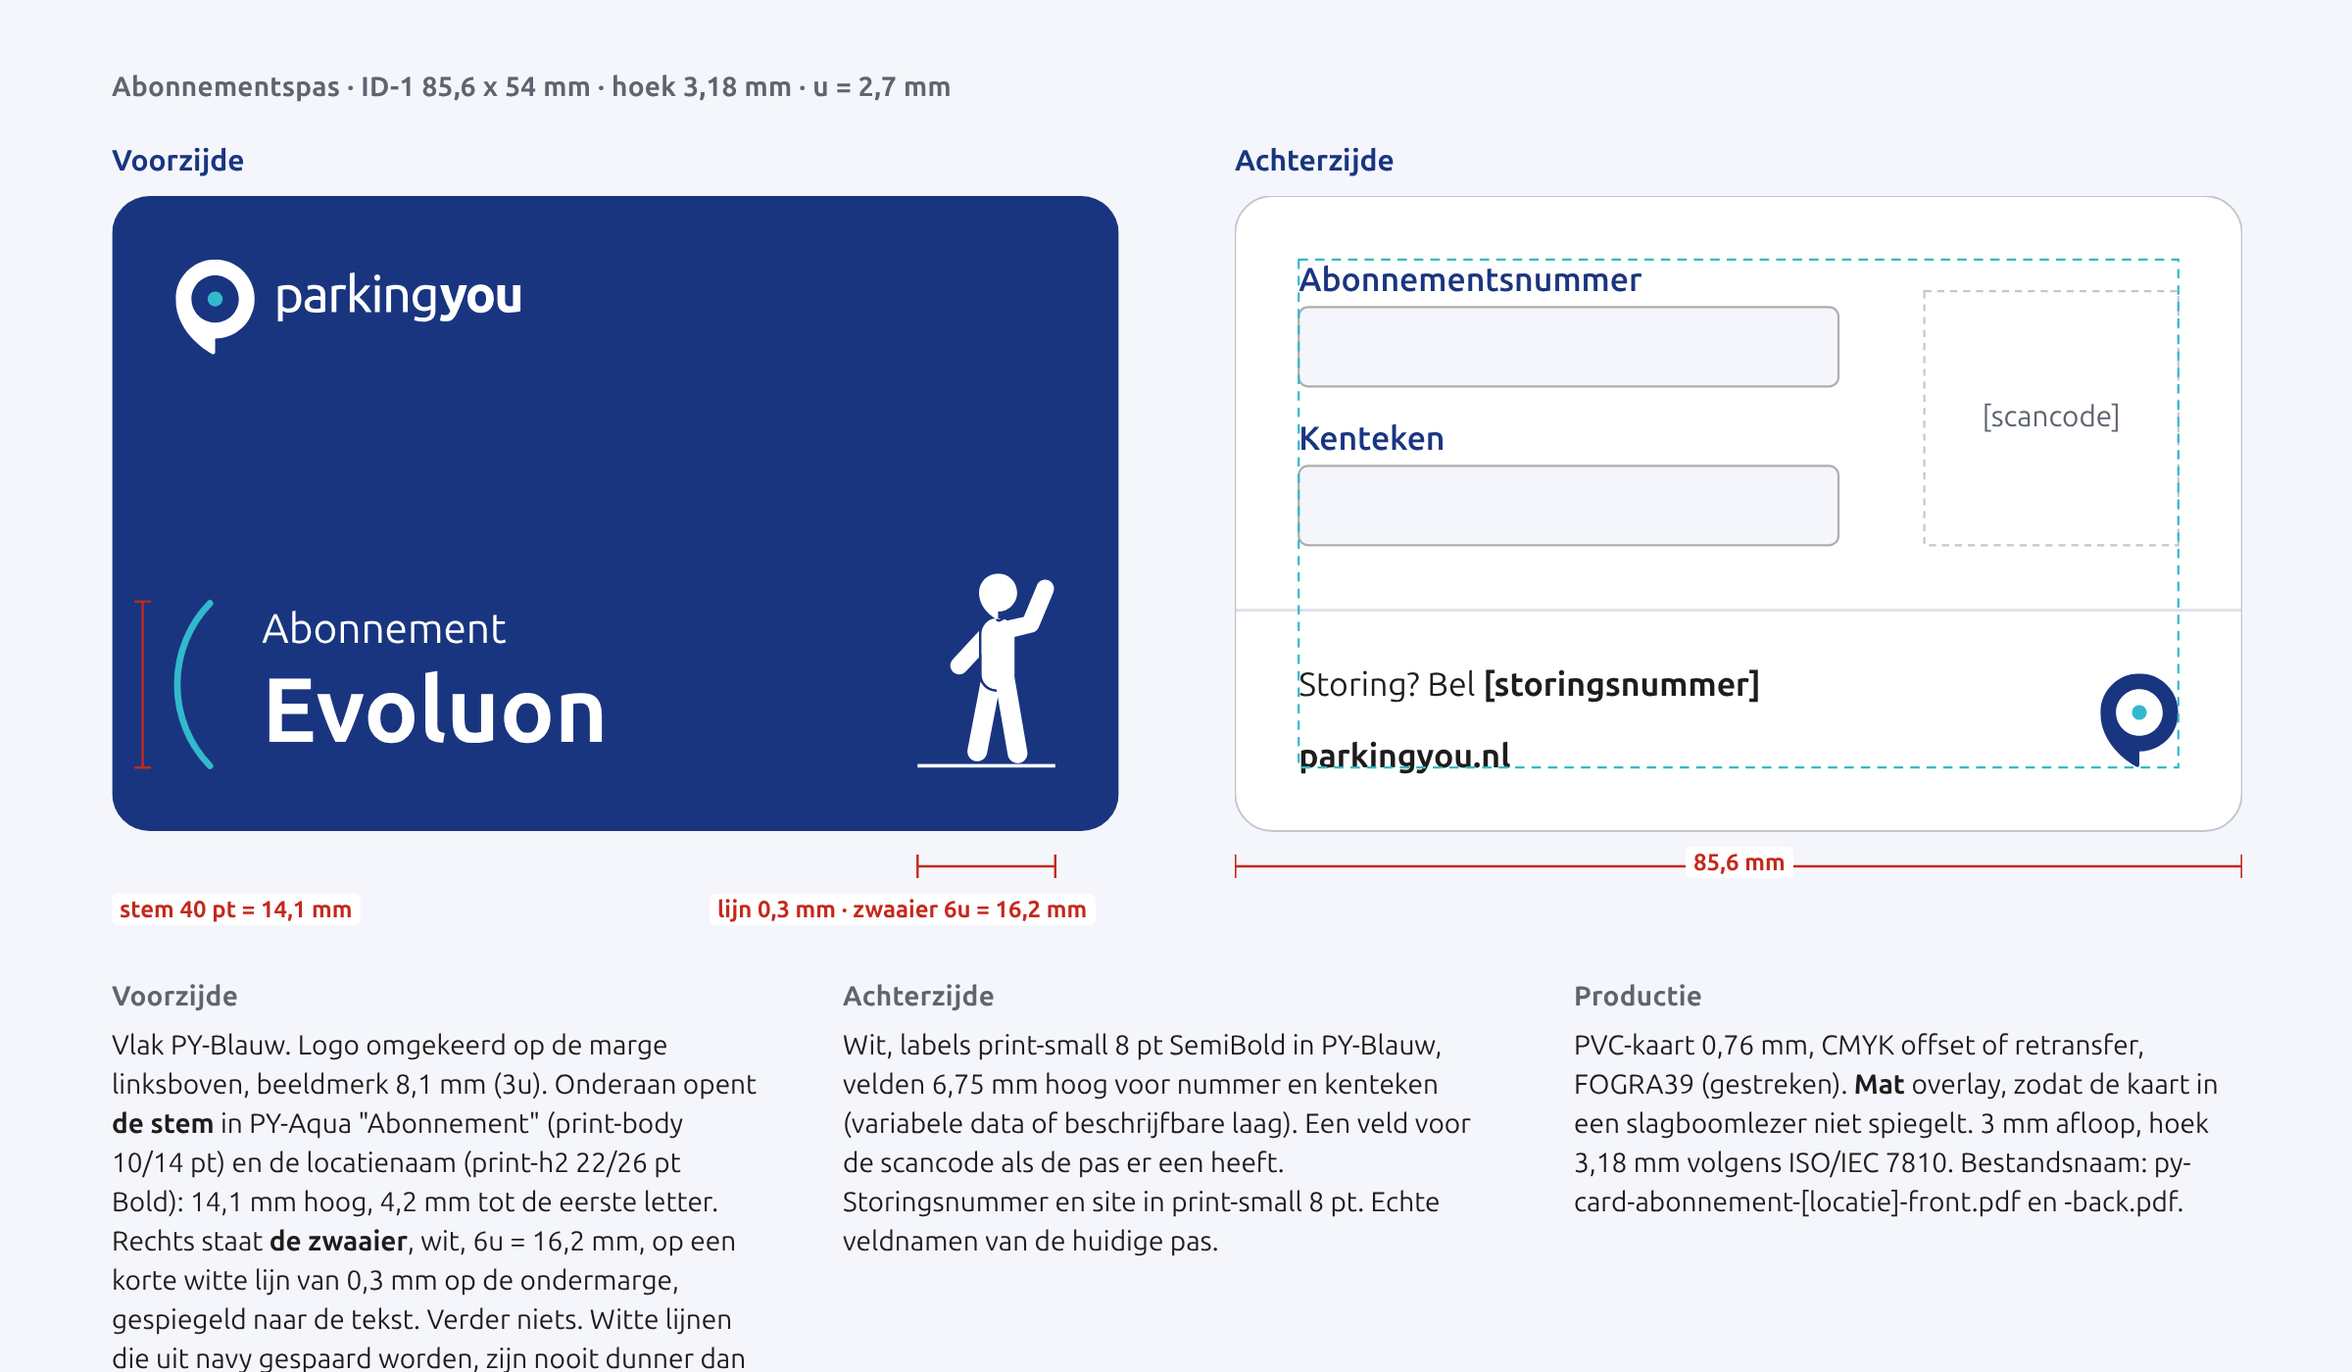
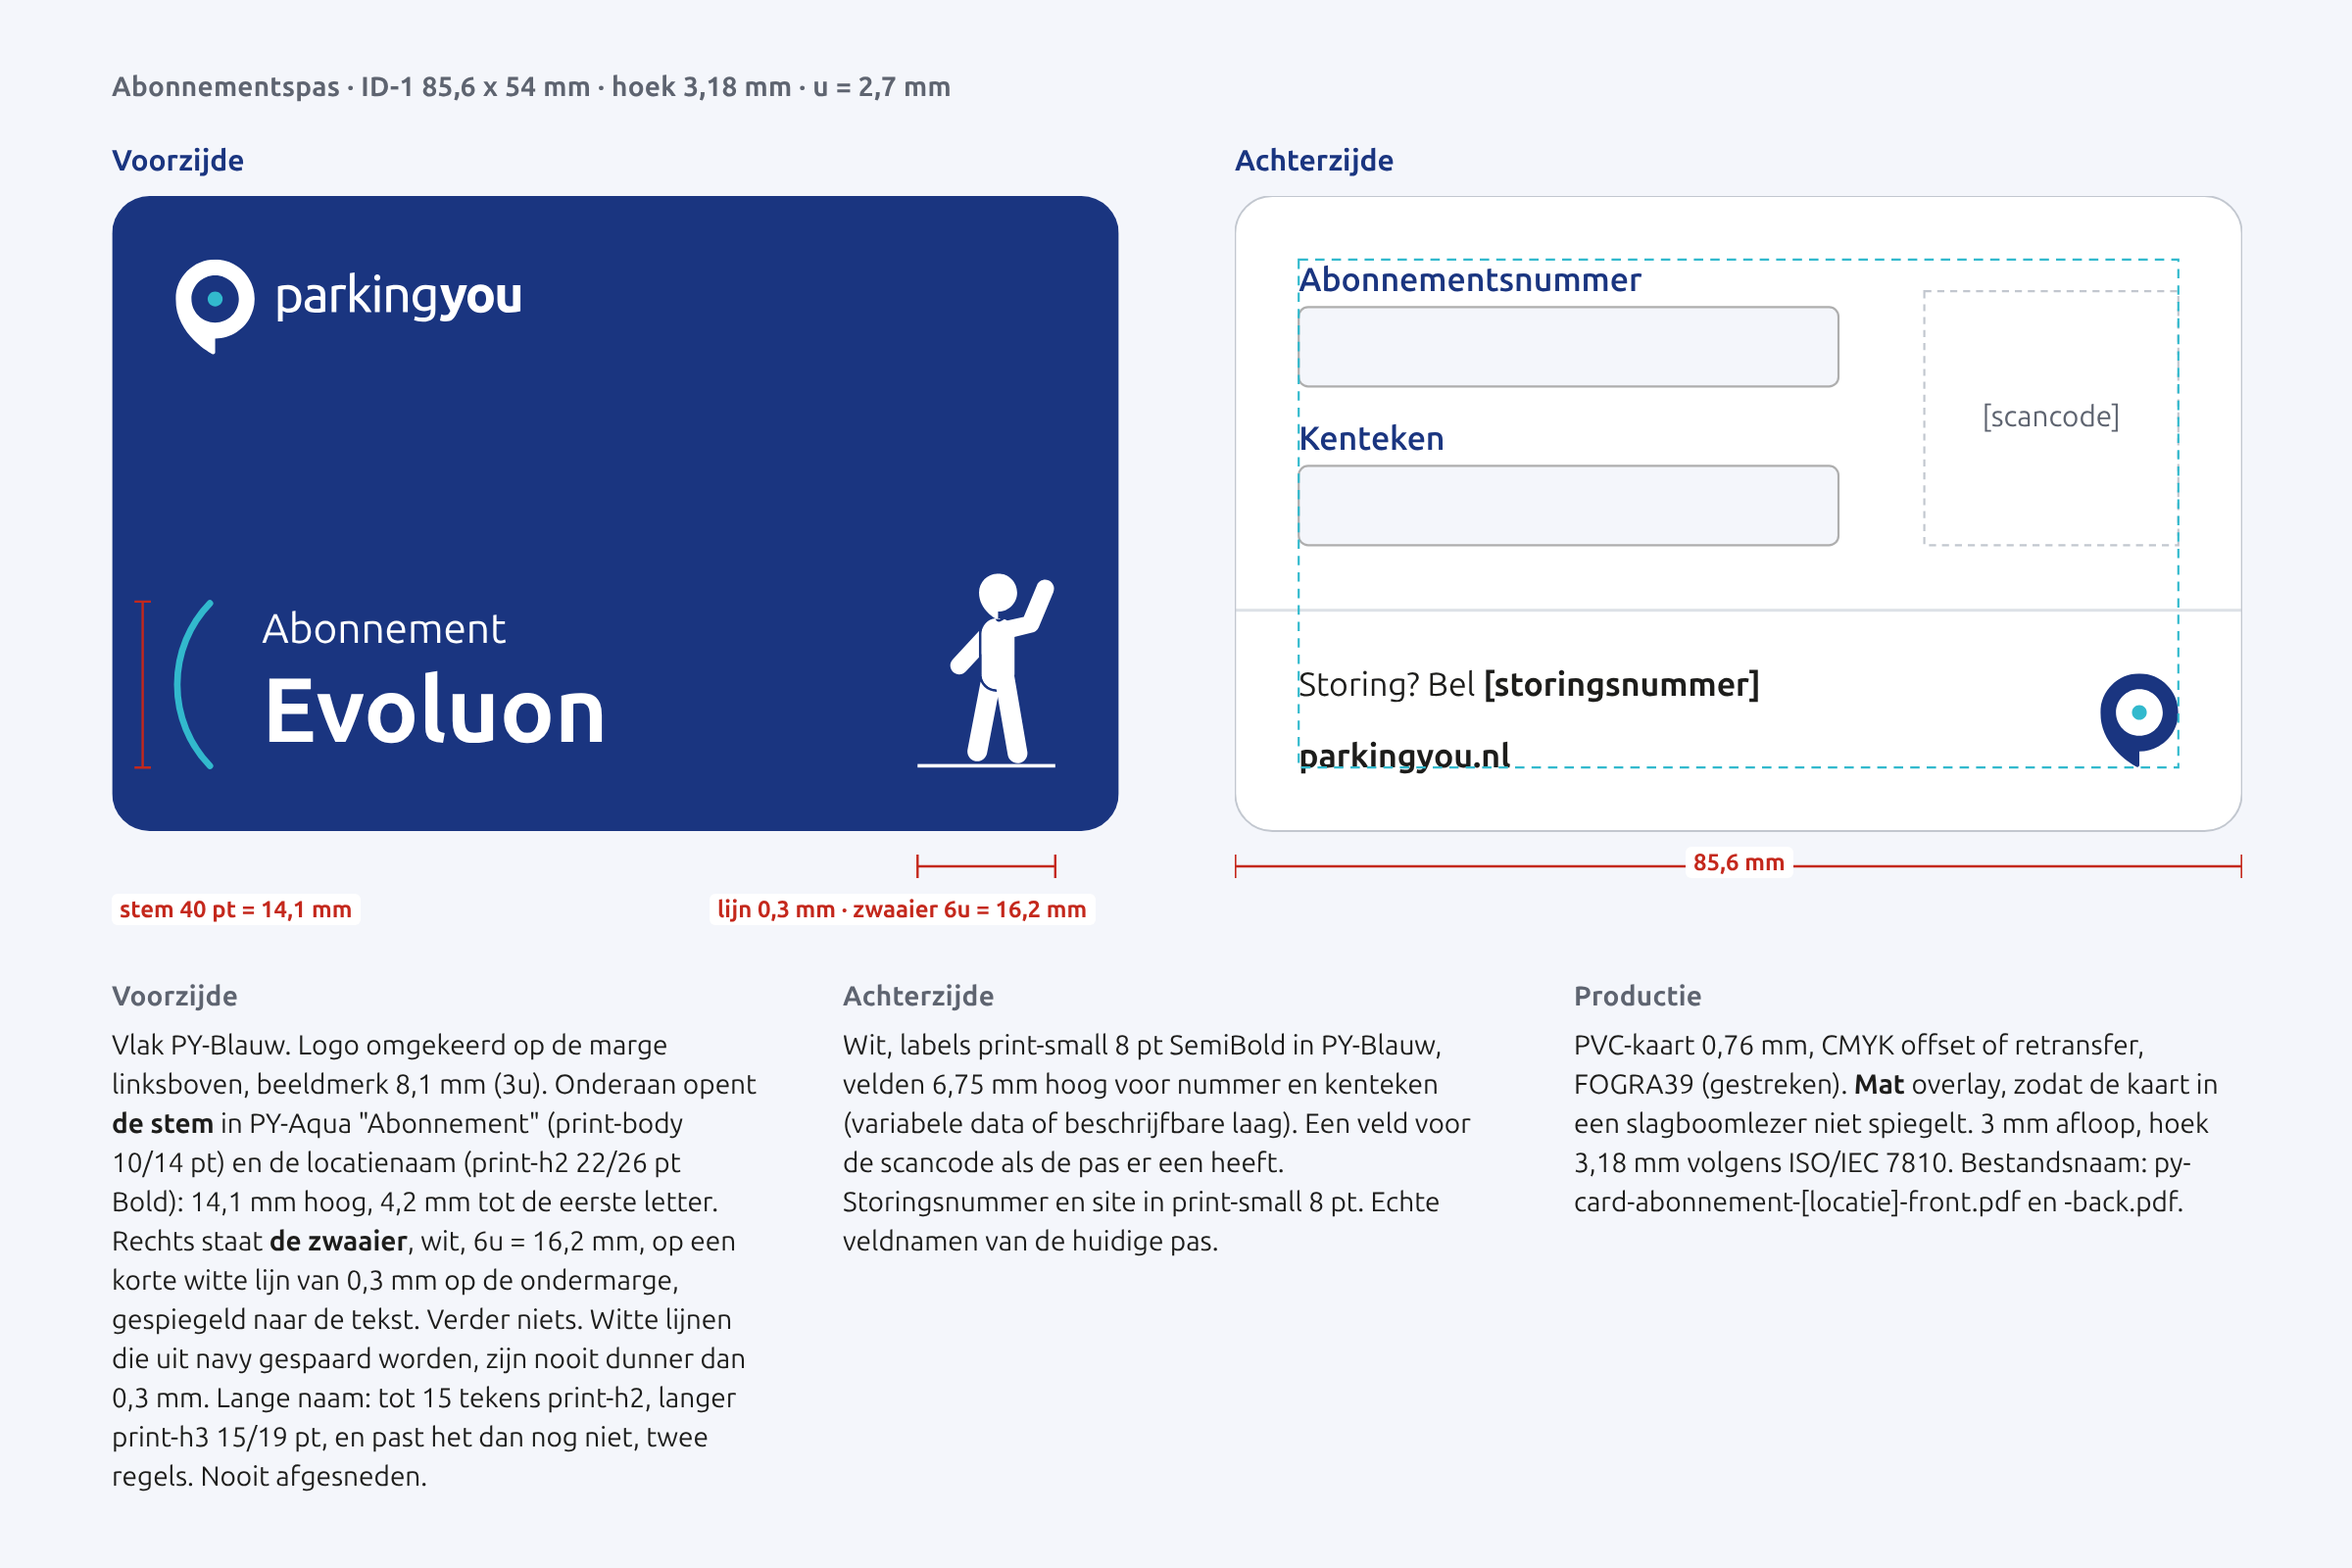
brand-2027: review fixes stationery and toepassingen
Claude-Session: https://claude.ai/code/session_01A5zCZPhhdyTXntSMSAxsZz

diff --git a/brand-2027/02-build/04-grid/figures/voorbeelden-print.html b/brand-2027/02-build/04-grid/figures/voorbeelden-print.html
@@ -68,7 +68,7 @@ text { font-family: 'Ubuntu Sans'; font-variant-numeric: tabular-nums; }
 <!-- 3. Entrance lightbox for pedestrians, the chapter 12 product, drawn by PYS.entrance (py-signs.js). 1 unit = 1 mm, 0,36 px per mm.
      u = 50 mm, margin 2u = 100 mm, 6 columns of 91,7 mm with 50 mm gutter. -->
 <svg id="lightbox" class="abs" style="left:784px;top:92px" width="360" height="360" viewBox="0 0 1000 1000"></svg>
-<div class="abs cap" style="left:784px;top:466px;width:360px"><b>Entreelichtbak voetgangers 1000 x 1000 mm</b>, zoals in hoofdstuk 12, Toepassingen. u = 50 mm, marge 2u, 6 kolommen. Kapitaalhoogte 100 mm voor 10 m, alleen Nederlands. Volledig logo bovenaan, de loper 540 mm op de basislijn van "Ingang", de pijl 2 x de kapitaalhoogte. Loper + pijl.</div>
+<div class="abs cap" style="left:784px;top:466px;width:360px"><b>Entreelichtbak voetgangers 1000 x 1000 mm</b>, zoals in hoofdstuk 12, Toepassingen. u = 50 mm, marge 2u, 6 kolommen. Kapitaalhoogte 100 mm voor 10 m, alleen Nederlands. Logo bovenaan (beeldmerk 200 mm, 100 mm vrij eronder), de loper 500 mm op de basislijn van "Ingang", de pijl 2 x de kapitaalhoogte. Loper + pijl.</div>
 </div>
 <script>
   let cols = '';

diff --git a/brand-2027/02-build/03-typografie/figures/print-scale.html b/brand-2027/02-build/03-typografie/figures/print-scale.html
@@ -31,7 +31,7 @@ th{font:700 12px/1.2 var(--py-font-sans);color:#5E6470;border-top:0}
 <div style="display:flex;gap:56px;margin-top:22px;align-items:flex-start">
 <div><div class="t-label-m" style="margin-bottom:8px">Posters en social: schalen met de formaateenheid u</div>
 <table><tr><th>Formaat</th><th>u (korte zijde / 20)</th><th>Kop: kapitaalhoogte 1u tot 2u</th><th>Tekst: kapitaalhoogte 0,3u tot 0,5u</th></tr><tr><td>A4</td><td>10,50 mm</td><td>43 tot 86 pt</td><td>13 tot 21 pt</td></tr><tr><td>A3</td><td>14,85 mm</td><td>61 tot 121 pt</td><td>18 tot 30 pt</td></tr><tr><td>A2</td><td>21,00 mm</td><td>86 tot 172 pt</td><td>26 tot 43 pt</td></tr></table></div>
-<div class="note" style="width:330px;margin-top:30px">Korps in pt = kapitaalhoogte in mm / 0,693 / 0,3528. Afgerond op hele punten. Rekenvoorbeeld, geen nieuwe waarden: de regel staat in de core-spec.</div>
+<div class="note" style="width:330px;margin-top:30px">Korps in pt = kapitaalhoogte in mm / 0,693 / 0,3528. Afgerond op hele punten. Een rekenvoorbeeld van de regel uit dit hoofdstuk.</div>
 </div>
 </div></body>
 </html>

diff --git a/brand-2027/02-build/11-toepassingen/figures/sign-terminal-stickers.html b/brand-2027/02-build/11-toepassingen/figures/sign-terminal-stickers.html
@@ -65,7 +65,7 @@
   <div class="cap" style="left: 472px; top: 282px">Bankpas voorhouden <span>85 x 43 · print-h1 32 pt + print-h3 15 pt</span></div>
   <div class="cap" style="left: 860px; top: 186px">Druk 3 seconden <span>56,4 x 21,3</span></div>
   <div class="cap" style="left: 860px; top: 306px">Automaatnummer <span>58,9 x 13,1 · navy: info</span></div>
-  <div class="cap" style="left: 60px; top: 490px">Scan hier je pas <span>109 x 33,8 · NL en EN even groot</span></div>
+  <div class="cap" style="left: 60px; top: 490px">Scan hier je pas <span>109 x 33,8 · Nederlands en Engels even groot</span></div>
   <div class="cap" style="left: 544px; top: 476px">Betaalmerken <span>105 x 30,6 · wit, merken van derden</span></div>
 
   <div class="col" style="left: 60px; top: 540px">

diff --git a/brand-2027/02-build/11-toepassingen/figures/key-subscription-card.html b/brand-2027/02-build/11-toepassingen/figures/key-subscription-card.html
@@ -14,7 +14,7 @@
 </style>
 </head>
 <body>
-<div class="fig fig--subtle" style="width: 1200px; height: 700px">
+<div class="fig fig--subtle" style="width: 1200px; height: 800px">
   <div class="eyebrow" style="position: absolute; left: 57px; top: 36px">Abonnementspas · ID-1 85,6 x 54 mm · hoek 3,18 mm · u = 2,7 mm</div>
   <div style="position: absolute; left: 57px; top: 72px; font: 700 15px/20px var(--py-font-sans); color: #1A3580">Voorzijde</div>
   <div style="position: absolute; left: 630px; top: 72px; font: 700 15px/20px var(--py-font-sans); color: #1A3580">Achterzijde</div>

diff --git a/brand-2027/02-build/11-toepassingen/figures/newsletter.html b/brand-2027/02-build/11-toepassingen/figures/newsletter.html
@@ -15,7 +15,7 @@
 </style>
 </head>
 <body>
-<div class="fig fig--subtle" style="width: 1200px; height: 1388px">
+<div class="fig fig--subtle" style="width: 1200px; height: 1420px">
   <div class="eyebrow" style="position: absolute; left: 60px; top: 36px">Nieuwsbrief · 600 px breed · één kolom, blokken van 600</div>
   <div class="mail">
     <div style="height: 36px; background: #F4F6FB; display: flex; justify-content: space-between; align-items: center; padding: 0 32px; font-size: 14px; line-height: 20px; color: #5E6470">

diff --git a/brand-2027/02-build/04-grid/chapter.md b/brand-2027/02-build/04-grid/chapter.md
@@ -38,7 +38,7 @@ A2 volgt dezelfde regel: u = 21 mm.
 
 **A4 poster.** Wit. De stem opent de kop vanaf 4u, kapitaalhoogte 1,5u. Tekst 0,4u, 1u onder de kop. Een navy bubbel van 8u staat rechtsonder op de kolommen. In de bubbel staat alleen het bedrag, "€ 12,50"; "per dag" staat ernaast, 1u van de bubbel. Het logo staat linksonder op de marge. Twee elementen: stem en bubbel. Geen oranje: buiten de garage is een prijs navy.
 
-**Lichtbak.** Dit is de entreelichtbak voor voetgangers uit hoofdstuk 12, Toepassingen, op zijn grid: 1000 x 1000 mm, u = 50 mm, marge 100 mm, 6 kolommen. Het front is navy. Tekst op borden rekent met de leesafstand uit hoofdstuk 4, Typografie (10 mm kapitaalhoogte per meter), niet met de u-regel. "Ingang" heeft een kapitaalhoogte van 100 mm, leesbaar op 10 m, alleen in het Nederlands. Bovenaan staat het volledige logo, met 0,5x vrije ruimte. De loper is 540 mm hoog en staat met zijn voeten op de basislijn van "Ingang". De hoekige pijl is 2 x de kapitaalhoogte (200 mm) en staat los ernaast. Logo plus twee elementen: loper en pijl.
+**Lichtbak.** Dit is de entreelichtbak voor voetgangers uit hoofdstuk 12, Toepassingen, op zijn grid: 1000 x 1000 mm, u = 50 mm, marge 100 mm, 6 kolommen. Het front is navy. Tekst op borden rekent met de leesafstand uit hoofdstuk 4, Typografie (10 mm kapitaalhoogte per meter), niet met de u-regel. "Ingang" heeft een kapitaalhoogte van 100 mm, leesbaar op 10 m, alleen in het Nederlands. Bovenaan staat het volledige logo met een beeldmerk van 200 mm, daaronder 100 mm vrij: meer dan de 0,5x die het logo vraagt. De loper is 500 mm hoog en staat met zijn voeten op de basislijn van "Ingang". De hoekige pijl is 2 x de kapitaalhoogte (200 mm) en staat los ernaast. Logo plus twee elementen: loper en pijl.
 
 ![Visitekaartje voor en achter, A4 poster en entreelichtbak op hun grid](figures/voorbeelden-print.png)
 

diff --git a/brand-2027/02-build/03-typografie/chapter.md b/brand-2027/02-build/03-typografie/chapter.md
@@ -193,7 +193,7 @@ Goedgekeurd en verwerkt: besluiten D25 en D39 in de core spec.
 | Onderwerp | Voorstel | Waarom |
 |---|---|---|
 | Meten van de stem | Hoogte tekstblok = aantal regels x regelhoogte. Afstand 0,3x gemeten van de open kant van de boog (de punten) tot de eerste letter. | De core spec zegt "hoogte = tekstblok" en "afstand 0,3x", maar niet vanaf waar. Zo is het op elke maat meetbaar. De referentiefiguur bij de eigen elementen staat iets krapper (ongeveer 0,2x); die zou mee moeten. |
-| De stem als scheiding op borden | Afstand 0,3x de hoogte aan beide kanten van de boog; hoogte gelijk aan het tekstblok naast de boog. | De core spec geeft de lijn voor borden, maar geen afstand en hoogte. |
+| De stem als scheiding op borden | Afstand 0,3x de hoogte aan beide kanten van de boog; hoogte gelijk aan de pijl of het pictogram ernaast (vervangen door D42 en D47). | De core spec geeft de lijn voor borden, maar geen afstand en hoogte. |
 | Paginakop per scherm | Desktop display-xl, tablet display-l, telefoon heading-xl. Boven de paginakop `space.9` (96 px) op desktop, `space.7` (48 px) op telefoon. | Maakt "grotere, rustigere koppen" toetsbaar, met bestaande tokens. |
 | Regelafstand van u-koppen | Korps x 50/48, zoals print-display. | De core spec geeft voor posters en social alleen de kapitaalhoogte; de hoogte van de stem hangt van de regelafstand af. |
 | Gewicht van het sleutelwoord | ExtraBold 800 in display-koppen, Bold 700 in heading-koppen; de rest altijd Regular 400. | Volgt de schaal; voorkomt een kop die helemaal vet is. |
